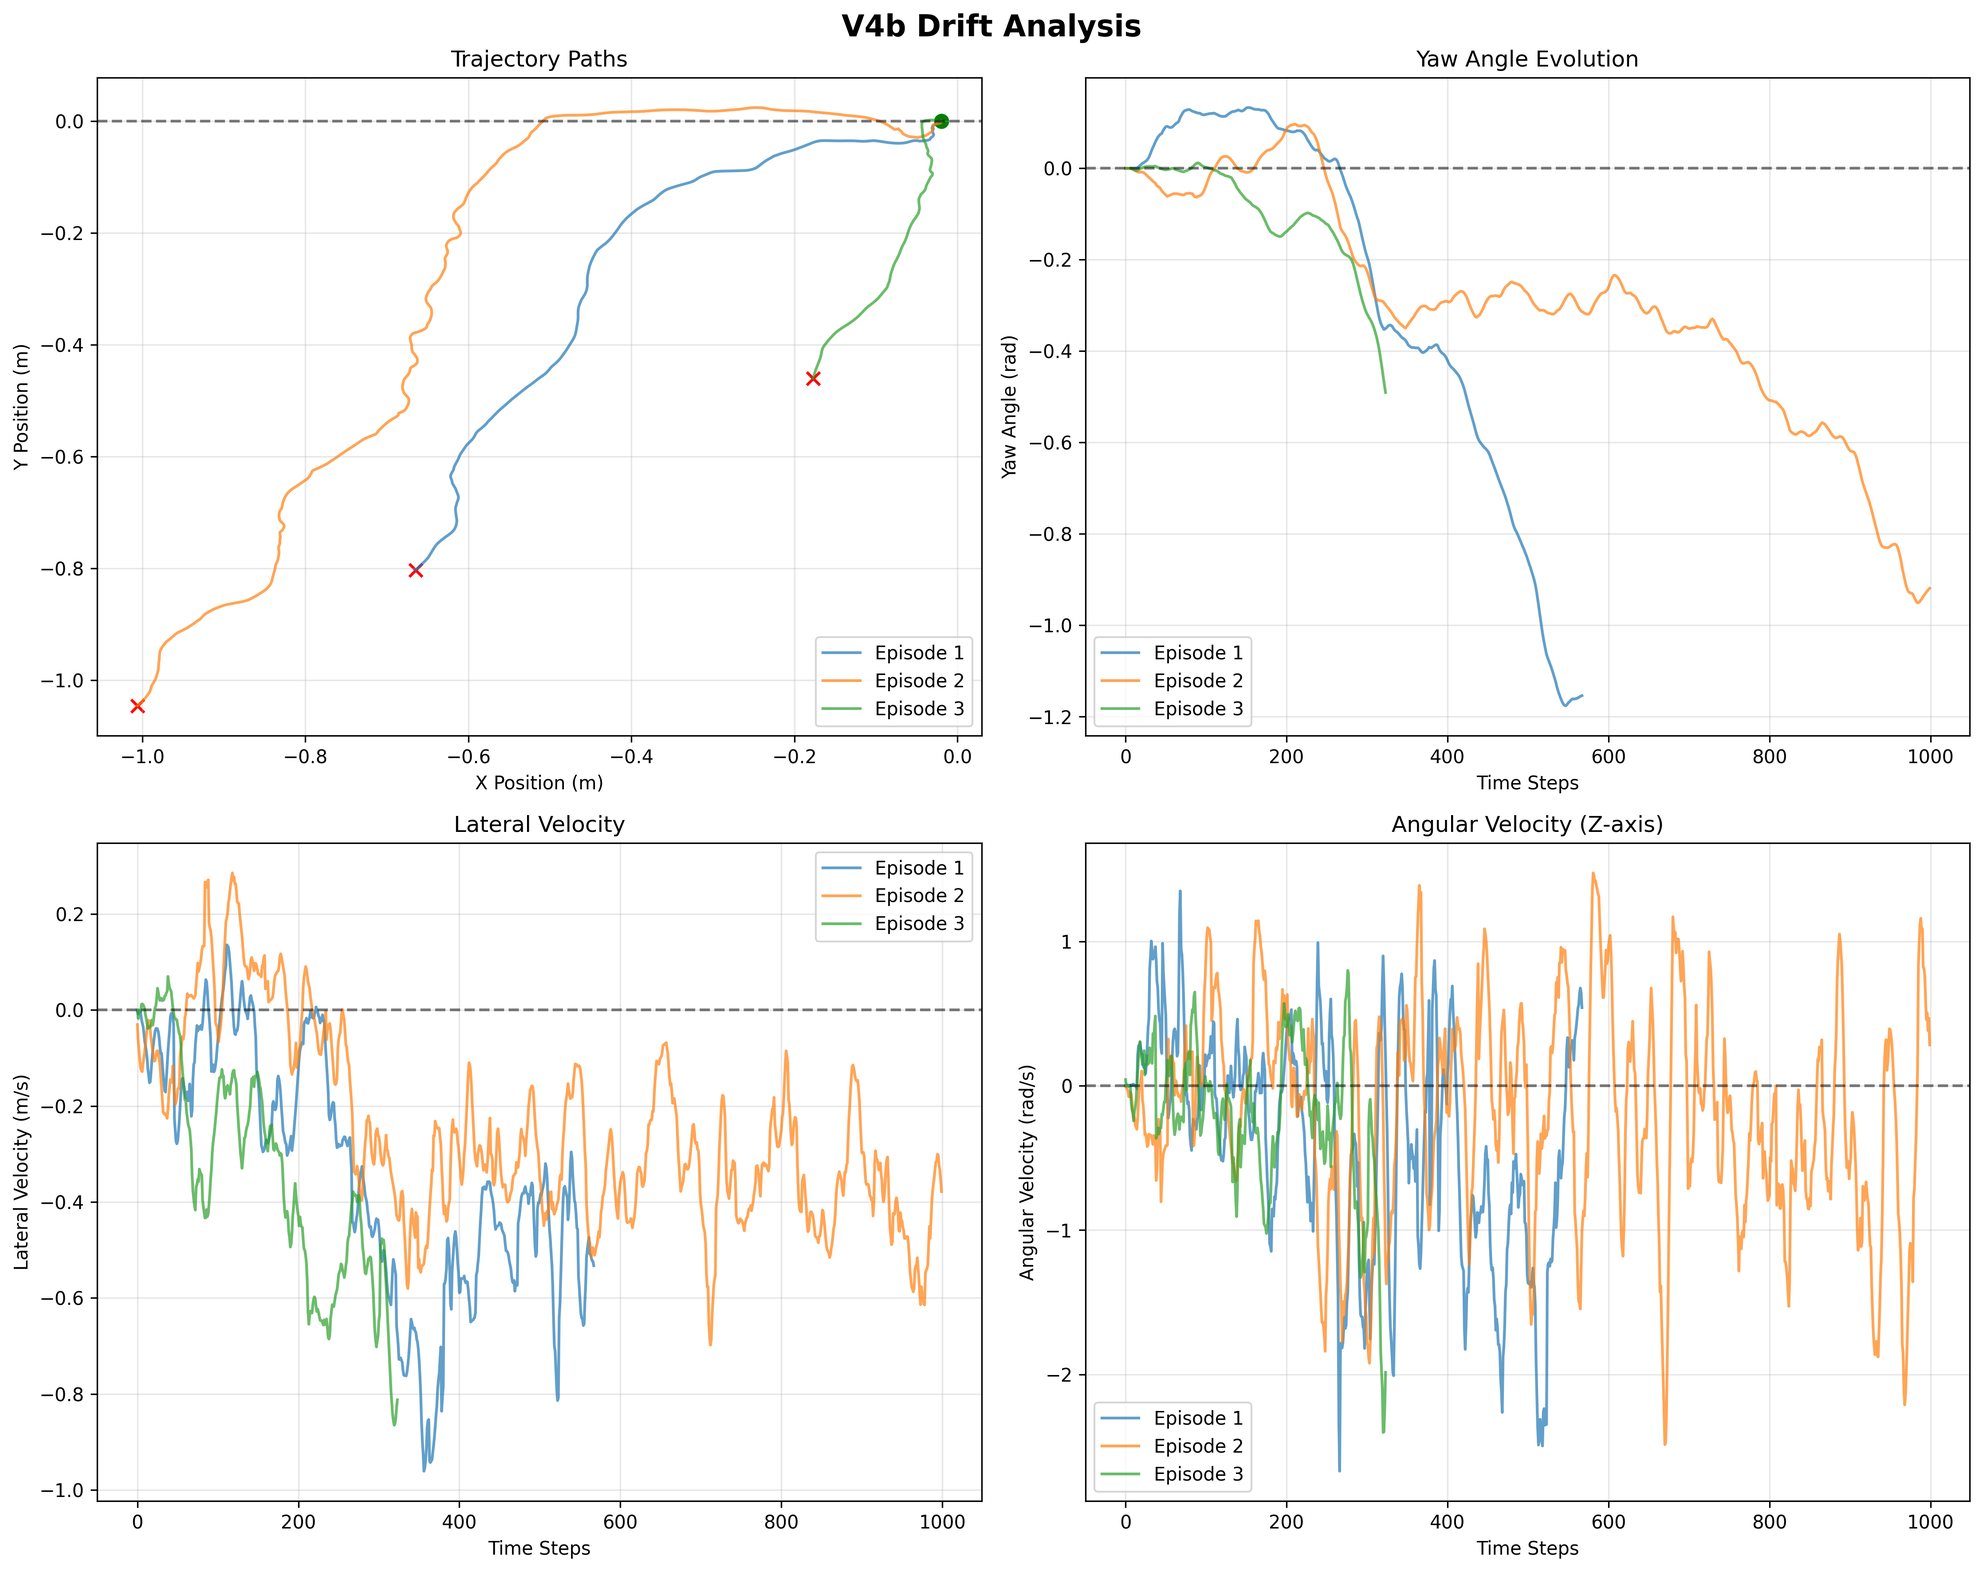
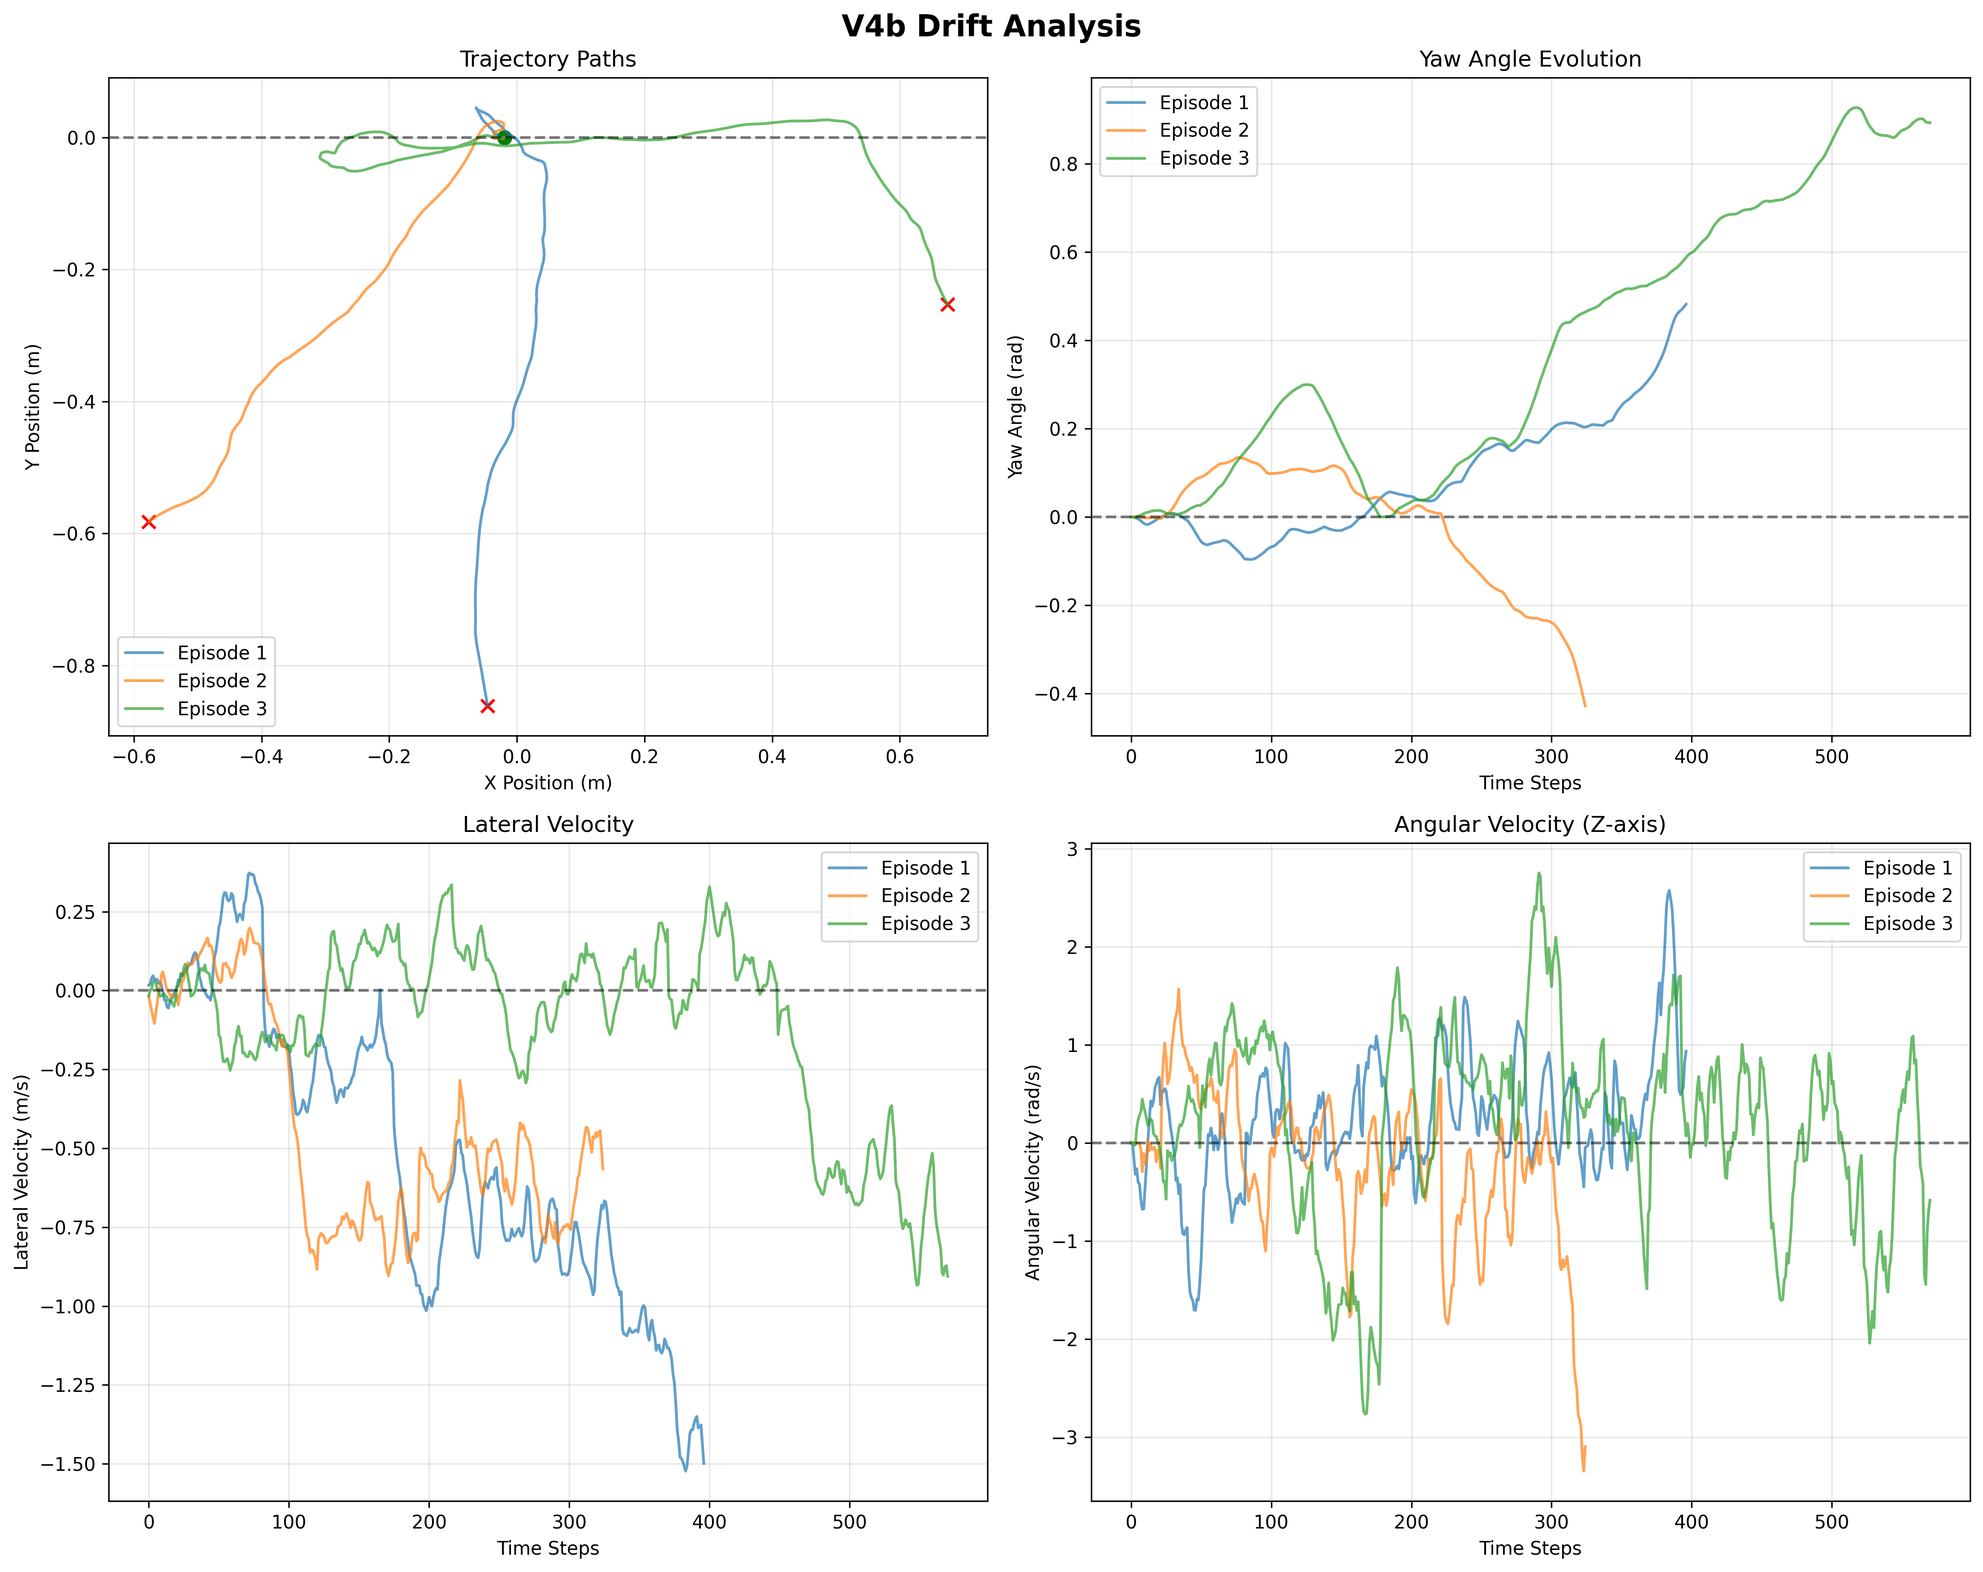
feat: Adding workflow in ci.yml, .pre-commit-config.yaml -modifying quadruped_env train_ppo_with_metrics with more bonus strategies -add smoke test

diff --git a/quadruped_env.py b/quadruped_env.py
@@ -190,162 +190,136 @@ class QuadrupedEnv(gym.Env):
         
         return np.array(obs, dtype=np.float32)
 
-    def _calculate_heading_guidance_reward(self, vel, euler):
-        """积极的航向引导 - 而不仅仅是惩罚"""
-        lateral_velocity = vel[1]
-        roll_angle = euler[0]
-        
-        # 惩罚明显的侧向漂移
-        if abs(lateral_velocity) > 0.15:      # 严重偏移 → 强惩罚
-            lateral_penalty = -2.0 * abs(lateral_velocity)
-        elif abs(lateral_velocity) > 0.08:    # 中度偏移 → 中惩罚  
-            lateral_penalty = -1.2 * abs(lateral_velocity)
-        elif abs(lateral_velocity) > 0.03:    # 轻度偏移 → 轻惩罚
-            lateral_penalty = -0.6 * abs(lateral_velocity)
-        else:                                 # 理想状态 → 无惩罚
-            lateral_penalty = 0.0
-        
-        # 奖励直线行走（轻微的正向激励）
-        straight_bonus = 0.1 if abs(lateral_velocity) < 0.02 else 0.0
-        
-        # 结合Roll角稳定性
-        roll_penalty = -0.3 * abs(roll_angle) if abs(roll_angle) > 0.2 else 0.0
-        
-        return lateral_penalty + straight_bonus + roll_penalty
-    
-    def _calculate_safety_penalty(self, pos, euler):
-        """防止头部触地和过度倾斜的安全奖励"""
-        pitch_angle, roll_angle, base_height = euler[1], euler[0], pos[2]
-        safety_penalty = 0.0
-        
-        # 只惩罚真正危险的情况
-        if pitch_angle > 0.6:  # 放宽到34度
-            safety_penalty += 0.3 * (pitch_angle - 0.6)
-        elif pitch_angle > 0.4:  # 预警区，轻微惩罚
-            safety_penalty += 0.1 * (pitch_angle - 0.4)
-        
-        if base_height < 0.10:  # 放宽最低高度
-            safety_penalty += 0.5 * (0.10 - base_height)
-        
-        # 移除极端惩罚项
-        return safety_penalty
-
     def _calculate_reward(self):
-        """计算奖励 - 全面改进"""
+        """Phase 1：零速度跟踪 + 稳定性优先 (基于系统诊断优化)"""
         pos, orn = p.getBasePositionAndOrientation(self.robot_id)
         vel, ang_vel = p.getBaseVelocity(self.robot_id)
-        euler = p.getEulerFromQuaternion(orn)
+        roll, pitch, yaw = p.getEulerFromQuaternion(orn)
 
-        # 1. 加大前进奖励 - 更多鼓励X轴正向移动
-        if vel[0] > 0.1:              # 明显前进
-            forward_reward = min(vel[0] * 6.5, 6.5)  # 稍微加强
-        elif vel[0] > 0.0:            # 缓慢前进
-            forward_reward = vel[0] * 3.0
-        else:                         # 后退惩罚
-            forward_reward = vel[0] * 12.0  # 强惩罚后退
+        # —— 辅助函数：死区 & 分段奖励 ——
+        def deadband_abs(x, tol):
+            """死区函数: |x| <= tol -> 0, else |x|-tol"""
+            ax = abs(x)
+            return 0.0 if ax <= tol else (ax - tol)
+
+        def band_reward(x, lo, hi, full=1.0, mid=0.5):
+            """分段奖励: x在[lo,hi]给full分；边缘区域给mid分；出界惩罚"""
+            if lo <= x <= hi:
+                return full
+            # 边缘容忍区间 (5%宽度)
+            width = hi - lo
+            delta = 0.05 * max(width, 1e-6)
+            if lo - delta <= x < lo:
+                return mid * (x - (lo - delta)) / delta
+            if hi < x <= hi + delta:
+                return mid * ((hi + delta) - x) / delta
+            return -0.2  # 轻微出界惩罚
+
+        # === 1) 零速度跟踪 (带死区容忍) ===
+        # 基于观察空间诊断：实际速度范围 vel_x:[-1.3,0.3], vel_y:[-1.2,0.6]
+        # 允许微小抖动避免过度敏感
+        vx_penalty = -deadband_abs(vel[0], 0.02) * 6.0    # 前进/后退惩罚
+        vy_penalty = -deadband_abs(vel[1], 0.02) * 10.0   # 侧漂惩罚更重
+        yaw_rate_penalty = -deadband_abs(ang_vel[2], 0.08) * 5.0  # 偏航惩罚
+
+        # === 2) 稳定性奖励 (大幅强化 - DeepSeek策略) ===
+        # 基于观察空间诊断：roll/pitch范围正常，四元数归一化良好
+        roll_abs, pitch_abs = abs(roll), abs(pitch)
         
+        # 姿态分级奖励 (更精细的稳定性评估)
+        if roll_abs < 0.05 and pitch_abs < 0.05:           # 优秀稳定 
+            stability_base = 3.0
+        elif roll_abs < 0.08 and pitch_abs < 0.08:         # 良好稳定
+            stability_base = 2.0  
+        elif roll_abs < 0.12 and pitch_abs < 0.12:         # 可接受
+            stability_base = 1.0
+        else:                                               # 不稳定
+            stability_base = -1.0
         
-        # 2. 高度奖励 - 保持合适高度
+        # 二次惩罚大角度偏移
+        stability_quadratic = -4.0 * (roll_abs**2 + pitch_abs**2)
+        stability_reward = stability_base + stability_quadratic
+
+        # === 3) 高度稳定 (基于观察空间诊断结果) ===
+        # 诊断显示：pos_z范围[0.168,0.433]，均值0.327
         height = pos[2]
-        if 0.18 < height < 0.25:      # 基于实际站立高度调整
-            height_reward = 2.0
-        elif height > 0.12:           # 降低最低要求
-            height_reward = 1.0
+        # 调整到诊断验证的实际范围
+        height_reward = band_reward(height, 0.28, 0.36, full=2.0, mid=1.0)
+        
+        # 危险高度强惩罚
+        if height < 0.18:  # 基于诊断最低观测值调整
+            height_penalty = -15.0 * (0.18 - height)
         else:
-            height_reward = -10.0
+            height_penalty = 0.0
+
+        # === 4) 膝关节奖励 (修复索引错误) ===
+        # 修正：joint_indices只有12个元素，索引0-11
+        # 根据Vision60结构：每条腿3个关节 [hip, thigh, calf]
+        knee_reward = 0.0
+        knee_indices_in_joint_list = [2, 5, 8, 11]  # 修正为正确的索引范围
         
-        # 3. 姿态稳定奖励
-        euler = p.getEulerFromQuaternion(orn)
-        roll, pitch, yaw = euler
-        
-        # 惩罚过度倾斜
-        orientation_reward = -5.0 * (abs(roll) + abs(pitch))
-        
-        # 朝向一致性奖励 - 保持朝前
-        yaw_diff = abs(yaw - self.previous_yaw)
-        if yaw_diff > math.pi:
-            yaw_diff = 2 * math.pi - yaw_diff
-        direction_reward = -2.0 * yaw_diff
-        
-        # 4. 关节角度奖励 - 鼓励合理的腿部姿态
-        joint_positions = []
+        for knee_idx in knee_indices_in_joint_list:
+            if knee_idx < len(self.joint_indices):  # 安全检查
+                joint_state = p.getJointState(self.robot_id, self.joint_indices[knee_idx])
+                knee_angle = joint_state[0]
+                
+                # 鼓励适度屈曲的自然站立姿态
+                if -1.8 <= knee_angle <= -1.2:          # 理想屈曲范围
+                    knee_reward += 0.3
+                elif -2.2 <= knee_angle <= -0.8:        # 可接受范围  
+                    knee_reward += 0.15
+                else:                                    # 过度屈曲/伸展惩罚
+                    knee_reward -= 0.1 * abs(knee_angle + 1.5)
+
+        # === 5) 关节速度平滑性 (基于观察空间诊断) ===
+        # 诊断显示：关节速度可能很大，但静止时应趋于零
+        joint_velocities = []
         for joint_id in self.joint_indices:
-            joint_state = p.getJointState(self.robot_id, joint_id)
-            joint_positions.append(joint_state[0])
+            joint_vel = p.getJointState(self.robot_id, joint_id)[1] 
+            joint_velocities.append(joint_vel)
         
-        joint_reward = 0.0
-        for i, (actual, desired) in enumerate(zip(joint_positions[:len(self.default_joint_angles)], 
-                                                 self.default_joint_angles)):
-            joint_diff = abs(actual - desired)
-            if joint_diff < 0.5:  # 接近理想角度
-                joint_reward += 0.1
-            else:
-                joint_reward -= 0.1 * joint_diff
-        
-        #V4b: 增加膝关节姿态奖励 - 防止小腿收缩作弊策略
-        knee_extension_reward = 0.0
-        # 膝关节索引：每条腿的第3个关节 (calf joints)
-        knee_indices = [2, 5, 8, 11]  # 基于joint_indices顺序
-        for knee_idx in knee_indices:
-            if knee_idx < len(joint_positions):
-                knee_angle = joint_positions[knee_idx]
-                # 鼓励膝关节在合理范围内伸展(基于URDF: -2.618 to 2.618)
-                # 理想角度接近0(中性位置)，避免过度屈曲
-                if abs(knee_angle) < 0.8:  # 在±0.8弧度内为良好姿态
-                    knee_extension_reward += 0.2
-                elif abs(knee_angle) < 1.5:  # 适中姿态
-                    knee_extension_reward += 0.1
-                else:  # 过度屈曲惩罚
-                    knee_extension_reward -= 0.1 * abs(knee_angle)
+        # 鼓励低关节速度 (静止状态)
+        smoothness_reward = -0.05 * np.mean(np.abs(joint_velocities))
 
-        # 5. 动作平滑奖励 - 减少抖动
-        if self.previous_action is not None:
-            action_diff = np.sum(np.abs(self.current_action - self.previous_action))
-            smoothness_reward = -0.1 * action_diff
-        else:
-            smoothness_reward = 0.0
-        
-        # 6. 稳定性奖励 - 惩罚过度摇摆
-        roll_stability = 0.2 if abs(roll) < 0.08 else -0.3 * abs(roll)
-        pitch_stability = 0.2 if abs(pitch) < 0.08 else -0.3 * abs(pitch)
-        stability_penalty = roll_stability + pitch_stability
-        
-        
-        # 8. 存活奖励
-        alive_reward = 0.1
+        # === 6) 存活奖励 ===
+        survival_reward = 0.4
 
-        #9.加入安全约束
-        safety_penalty = 0.5 * self._calculate_safety_penalty(pos, euler)
-        
-        #10.加入航向角奖励
-        heading_guidance_reward = self._calculate_heading_guidance_reward(vel, euler)
-        
-        total_reward = (forward_reward * 0.2
-                        + height_reward 
-                        + orientation_reward 
-                        + direction_reward 
-                        + joint_reward 
-                        + knee_extension_reward 
-                        + smoothness_reward 
-                        + stability_penalty  
-                        + alive_reward 
-                        + safety_penalty 
-                        + heading_guidance_reward)
-        
-        self.previous_positions = joint_positions.copy()
+        # === 组合权重 (Phase 1: 稳定性优先) ===
+        # 严格按照DeepSeek建议：stability_penalty权重2.0-3.0，forward_reward权重0.05-0.1
+        w_velocity = 0.05      # 大幅降低前进权重 (DeepSeek建议)
+        w_stability = 3.0      # 大幅提升稳定性权重 (DeepSeek建议)
+        w_height = 0.15        # 高度控制权重  
+        w_knee = 0.08          # 膝关节控制权重
+        w_smooth = 0.02        # 平滑性权重
 
-        return total_reward, {
-            'forward': forward_reward,
-            'height': height_reward,
-            'orientation': orientation_reward,
-            'direction': direction_reward,
-            'joint': joint_reward,
+        # 分项计算
+        velocity_term = w_velocity * (vx_penalty + vy_penalty + yaw_rate_penalty)
+        stability_term = w_stability * stability_reward  
+        height_term = w_height * (height_reward + height_penalty)
+        knee_term = w_knee * knee_reward
+        smooth_term = w_smooth * smoothness_reward
+
+        # 最终奖励
+        total_reward = (velocity_term + stability_term + height_term + 
+                    knee_term + smooth_term + survival_reward)
+
+        # 调试信息字典
+        reward_info = {
+            'total': total_reward,
+            'velocity_penalty': vx_penalty + vy_penalty + yaw_rate_penalty,
+            'stability': stability_reward,
+            'height': height_reward + height_penalty, 
+            'knee': knee_reward,
             'smoothness': smoothness_reward,
-            'stability': stability_penalty,
-            'knee_extension': knee_extension_reward,
-            'heading guidance': heading_guidance_reward,
-            'safety': safety_penalty,
+            'survival': survival_reward,
+            # 状态监控
+            'vel_x': vel[0], 'vel_y': vel[1], 'yaw_rate': ang_vel[2],
+            'roll': roll_abs, 'pitch': pitch_abs, 'height_val': height,
+            # 权重监控 (便于Phase 2调整)
+            'w_vel': w_velocity, 'w_stab': w_stability, 'w_height': w_height
         }
+
+        return total_reward, reward_info
     
     def step(self, action):
         """执行一步 - 改进的动作处理"""

diff --git a/train_ppo_with_metrics.py b/train_ppo_with_metrics.py
@@ -35,7 +35,7 @@ def print_final_metrics_summary():
 
 def main():
     # 版本和时间戳
-    version = "ppo_metrics_v4c"
+    version = "ppo_metrics_v4e"
     timestamp = datetime.now().strftime("%Y%m%d_%H%M%S")
     
     # 创建运行目录
@@ -61,7 +61,7 @@ def main():
 
     # 创建指标监控回调 - 降低监控频率以提升性能
     metrics_callback = QuadrupedMetricsCallback(
-        eval_freq=75000,  # 从2000改为10000，降低监控频率
+        eval_freq=5000,  # 监控频率
         verbose=1
     )
 
@@ -71,13 +71,13 @@ def main():
         'MlpPolicy',
         env,
         learning_rate=3e-4,
-        n_steps=512,         
+        n_steps=1024,         
         batch_size=64,       
-        n_epochs=4,         
+        n_epochs=10,         
         gamma=0.99,
         gae_lambda=0.95,
         clip_range=0.2,
-        ent_coef=0.01,
+        ent_coef=0.02,
         vf_coef=0.5,
         max_grad_norm=0.5,
         device=device,       # 确保GPU使用
@@ -89,12 +89,12 @@ def main():
     print("训练参数:")
     print(f"- 设备: {device}")
     print(f"- 并行环境: 8")
-    print(f"- 总步数: 750000")
-    print(f"- 指标监控频率: 每10000步")
+    print(f"- 总步数: 50000")
+    print(f"- 指标监控频率: 每5000步")
 
     # 训练 (带指标监控)
     model.learn(
-        total_timesteps=750000,  # 与原始相同
+        total_timesteps=50000,  # 与原始相同
         callback=metrics_callback,
         progress_bar=True
     )

diff --git a/scripts/read_tensorboard_metrics.py b/scripts/read_tensorboard_metrics.py
@@ -11,7 +11,7 @@ from tensorboard.backend.event_processing.event_accumulator import EventAccumula
 
 def find_latest_run():
     """找到最新的训练run"""
-    runs = glob.glob('runs/ppo_metrics_v4c_*')
+    runs = glob.glob('runs/ppo_metrics_v4e_*')
     if runs:
         return max(runs, key=os.path.getctime)
     return None
@@ -131,7 +131,7 @@ def main():
         log_dir = find_latest_run()
         if not log_dir:
             print("❌ 未找到训练结果，请指定log_dir")
-            print("用法: python scripts/read_tensorboard_metrics.py runs/ppo_metrics_v4c_xxx")
+            print("用法: python scripts/read_tensorboard_metrics.py runs/ppo_metrics_v4e_xxx")
             sys.exit(1)
         print(f"🔍 自动使用最新训练结果: {log_dir}")
     else:
